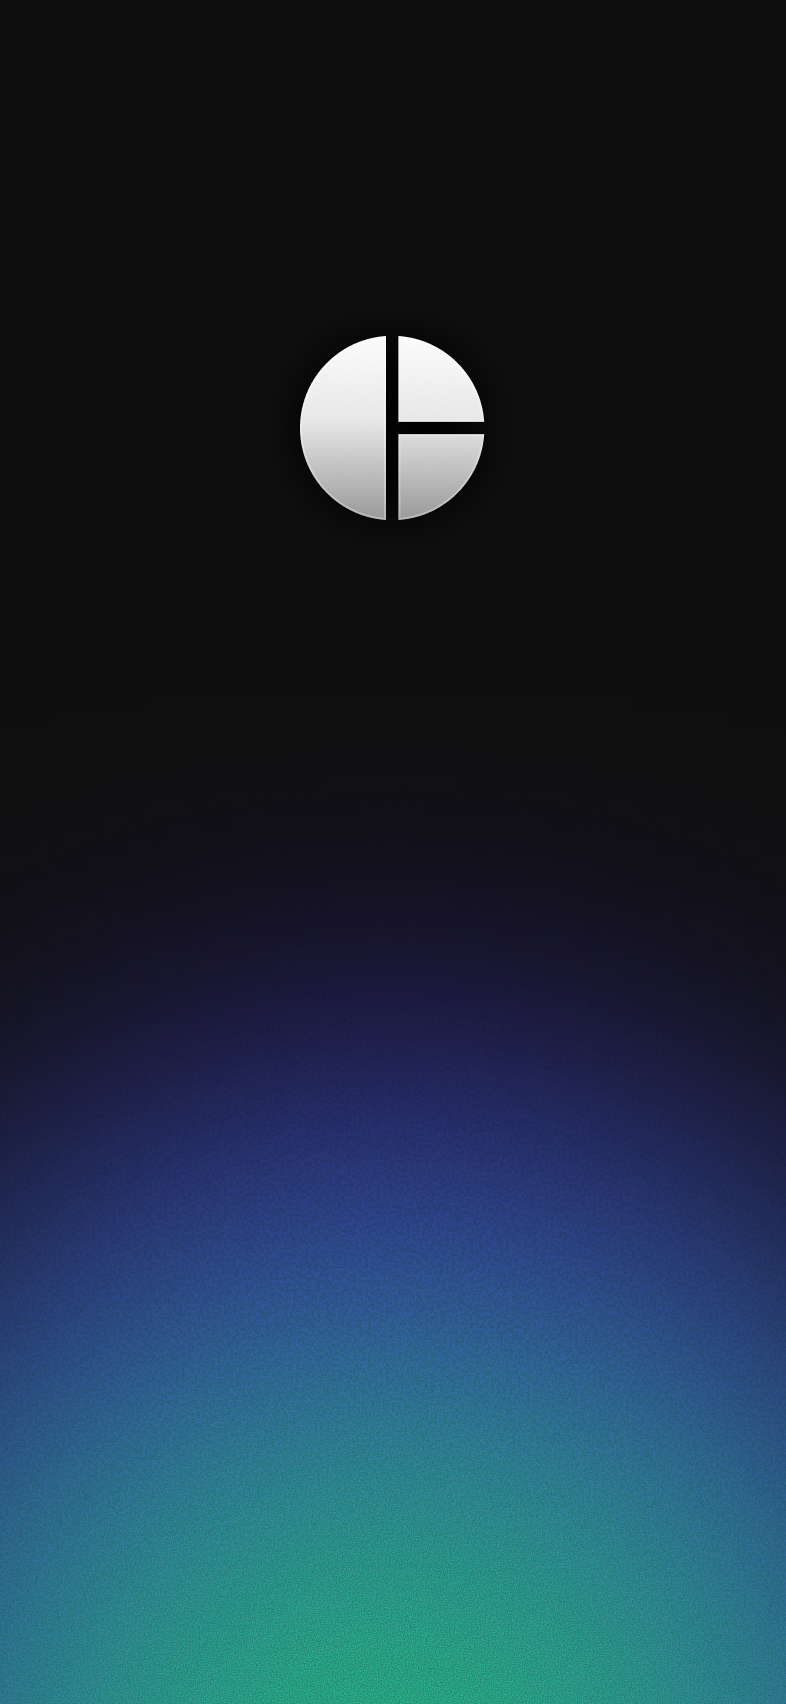
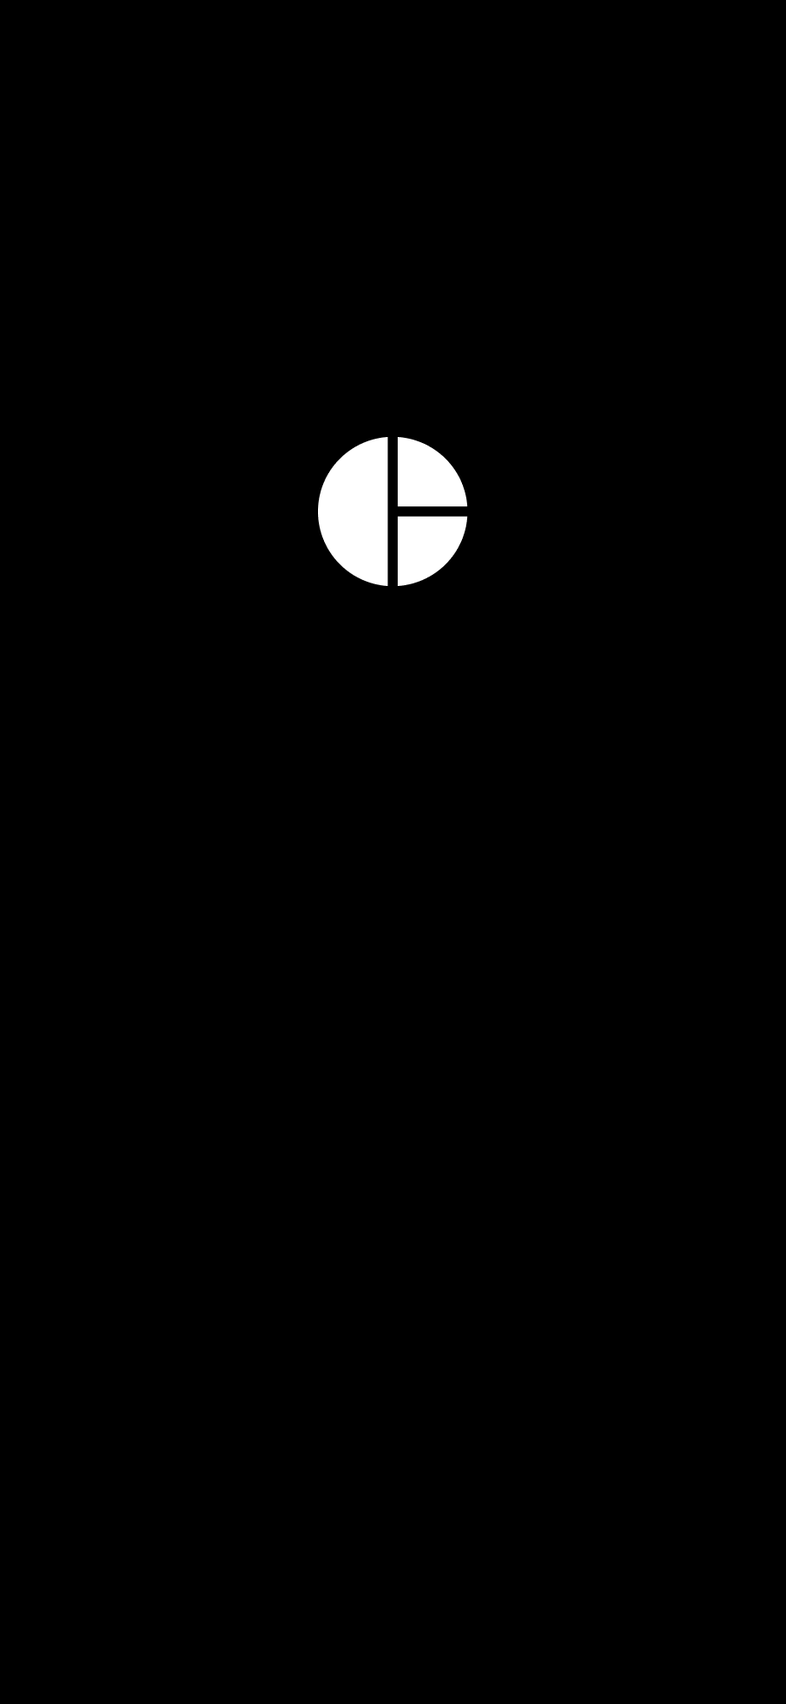
splash: solid black background with white mark
Replace the in-app load screen (App_Load_d.png) — drop the blue/teal
gradient for a solid black field with the Courtside mark recolored
white, centered horizontally and sitting in the upper third (same
786×1704 canvas, so the BoxFit.cover render in nav.dart is unchanged).

Set the native launch screen black via flutter_native_splash.yaml
(#000000 light + dark, android_12) and regenerate, so cold starts no
longer flash white before the in-app splash. Native assets are
generator output, not hand-edits; Info.plist re-indented by the tool
and gains UIStatusBarHidden=false (lints clean, no keys lost).

diff --git a/web/index.html b/web/index.html
@@ -1,6 +1,4 @@
-<!DOCTYPE html>
-<html>
-<head>
+<!DOCTYPE html><html><head>
   <!--
     If you are serving your web app in a path other than the root, change the
     href value below to reflect the base path you are serving from.
@@ -26,31 +24,103 @@
 
   
 
-  <meta name="robots" content="noindex" />
+  <meta name="robots" content="noindex">
 
   <!-- Favicon -->
-  <link rel="icon" href="favicon-light.svg" sizes="any"/>
+  <link rel="icon" href="favicon-light.svg" sizes="any">
   
 
   <!-- Open Graph & SEO tags -->
-  <meta property="og:title" content="Courtside IQ — Basketball Stat Tracker for AAU, Youth & High School Players " />
-  <meta property="og:description" content="Track basketball stats in real time with Courtside IQ. Built for AAU, high school, and youth players, parents, and coaches. Log points, rebounds, assists, and more — game by game, season by season. Free on iOS and Android." />
-  <meta property="og:image" content="/assets/assets/images/App_Icon_z.png" /> 
-  <meta name="twitter:title" content="Courtside IQ — Basketball Stat Tracker for AAU, Youth & High School Players " />
-  <meta name="twitter:description" content="Track basketball stats in real time with Courtside IQ. Built for AAU, high school, and youth players, parents, and coaches. Log points, rebounds, assists, and more — game by game, season by season. Free on iOS and Android." />
-  <meta name="twitter:image" content="/assets/assets/images/App_Icon_z.png" />
-  <meta name="twitter:card" content="summary_large_image" />
+  <meta property="og:title" content="Courtside IQ — Basketball Stat Tracker for AAU, Youth &amp; High School Players ">
+  <meta property="og:description" content="Track basketball stats in real time with Courtside IQ. Built for AAU, high school, and youth players, parents, and coaches. Log points, rebounds, assists, and more — game by game, season by season. Free on iOS and Android.">
+  <meta property="og:image" content="/assets/assets/images/App_Icon_z.png"> 
+  <meta name="twitter:title" content="Courtside IQ — Basketball Stat Tracker for AAU, Youth &amp; High School Players ">
+  <meta name="twitter:description" content="Track basketball stats in real time with Courtside IQ. Built for AAU, high school, and youth players, parents, and coaches. Log points, rebounds, assists, and more — game by game, season by season. Free on iOS and Android.">
+  <meta name="twitter:image" content="/assets/assets/images/App_Icon_z.png">
+  <meta name="twitter:card" content="summary_large_image">
 
-  <title> Courtside IQ — Basketball Stat Tracker for AAU, Youth & High School Players  </title>
-  <meta name="description" content="Track basketball stats in real time with Courtside IQ. Built for AAU, high school, and youth players, parents, and coaches. Log points, rebounds, assists, and more — game by game, season by season. Free on iOS and Android." />
+  <title> Courtside IQ — Basketball Stat Tracker for AAU, Youth &amp; High School Players  </title>
+  <meta name="description" content="Track basketball stats in real time with Courtside IQ. Built for AAU, high school, and youth players, parents, and coaches. Log points, rebounds, assists, and more — game by game, season by season. Free on iOS and Android.">
     
 
   <!-- Status Bar color in Safari browser (iOS) and PWA -->
   <meta name="theme-color" media="(prefers-color-scheme: light)" content="#f1f4f8">
-  <meta name="theme-color" media="(prefers-color-scheme: dark)"  content="#f1f4f8">
+  <meta name="theme-color" media="(prefers-color-scheme: dark)" content="#f1f4f8">
 
   <link rel="manifest" href="manifest.json">
   
+  <style id="splash-screen-style">
+    html {
+      height: 100%
+    }
+
+    body {
+      margin: 0;
+      min-height: 100%;
+      background-color: #000000;
+          background-size: 100% 100%;
+    }
+
+    .center {
+      margin: 0;
+      position: absolute;
+      top: 50%;
+      left: 50%;
+      -ms-transform: translate(-50%, -50%);
+      transform: translate(-50%, -50%);
+    }
+
+    .contain {
+      display:block;
+      width:100%; height:100%;
+      object-fit: contain;
+    }
+
+    .stretch {
+      display:block;
+      width:100%; height:100%;
+    }
+
+    .cover {
+      display:block;
+      width:100%; height:100%;
+      object-fit: cover;
+    }
+
+    .bottom {
+      position: absolute;
+      bottom: 0;
+      left: 50%;
+      -ms-transform: translate(-50%, 0);
+      transform: translate(-50%, 0);
+    }
+
+    .bottomLeft {
+      position: absolute;
+      bottom: 0;
+      left: 0;
+    }
+
+    .bottomRight {
+      position: absolute;
+      bottom: 0;
+      right: 0;
+    }
+
+    @media (prefers-color-scheme: dark) {
+      body {
+        background-color: #000000;
+          }
+    }
+  </style>
+  <script id="splash-screen-script">
+    function removeSplashFromWeb() {
+      document.getElementById("splash")?.remove();
+      document.getElementById("splash-branding")?.remove();
+      document.body.style.background = "transparent";
+    }
+  </script>
+  <meta content="width=device-width, initial-scale=1.0, maximum-scale=1.0, user-scalable=no" name="viewport">
 </head>
 <body>
   
@@ -61,5 +131,6 @@
   <script>
     {{flutter_bootstrap_js}}
   </script>
-</body>
-</html>
+
+
+</body></html>
